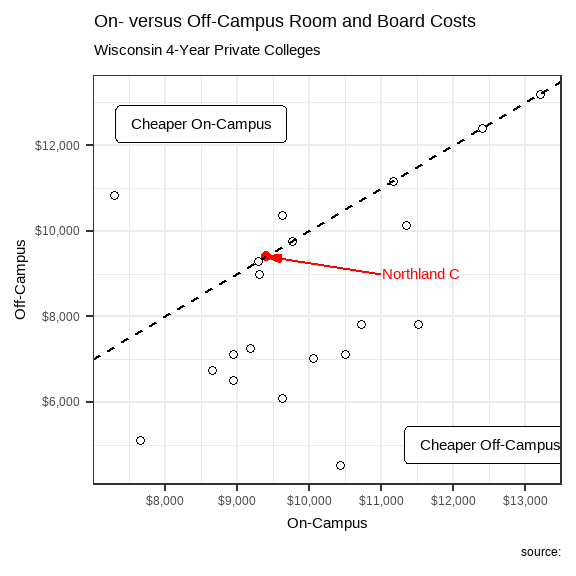
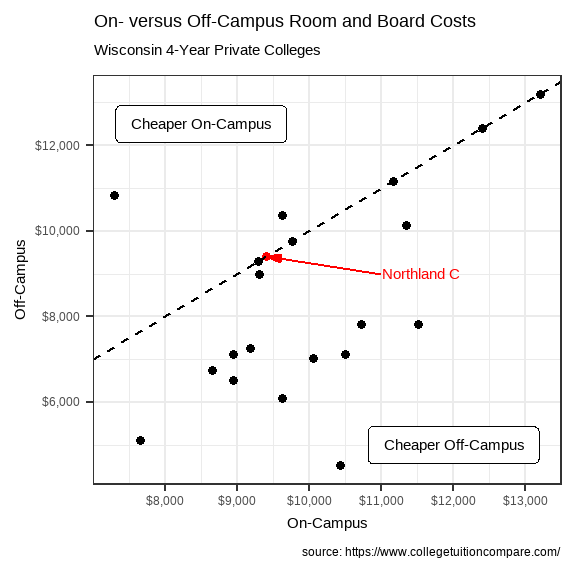
again

diff --git a/modules/Annotations/CE_Annotations.html b/modules/Annotations/CE_Annotations.html
@@ -22,8 +22,16 @@ css: "/css/modules.css"
 <p>Legends for very simple plot scan sometimes waste space and be distracting. Such an example may be the legend for the plot shown under <a href="https://derekogle.com/NCGraphing/modules/Means/CE_DeerHarvest.html#total-annual-harvest-by-county-and-year">“Total Annual Harvest by County and Year” on this page</a>. One alternative is to place a small label near the lines in the plot, as shown below. Construct <code>ggplot2</code> code to match this graph.</p>
 <p><img src="CE_Annotations_files/figure-html/unnamed-chunk-3-1.png" width="60%" /></p>
 <p> </p>
-<hr />
+</div>
+<div id="costs-of-college-i" class="section level2">
+<h2>Costs of College I</h2>
+<p>Costs of attending college can be compared across colleges at <a href="https://www.collegetuitioncompare.com/">www.collegetuitioncompare.com</a>. The data in <a href="https://derekogle.com/NCGraphing/modules/Annotations/WI_College_Costs.csv">this CSV file</a> contains cost information for four-year private colleges and universities in Wisconsin. Construct <code>ggplot2</code> code to emulated the plot below (<em>as closely as you can</em>). Note that the dashed line is the line where on-campus and off-campus costs are equal and, by definition, has a slope of 1 and an intercep to of zero. This line can be added to the plot with <code>geom_abline()</code> (you may need to perform an internet search for how to use this function). Also note that I widened the “padding” around the text in the in the two “cheaper” labels by including <code>label.padding=unit(0.35,"lines")</code> in the appropriate function.</p>
 <p><img src="CE_Annotations_files/figure-html/unnamed-chunk-4-1.png" width="60%" /></p>
+<p> </p>
+</div>
+<div id="bonus---costs-of-college-ii" class="section level2">
+<h2>BONUS - Costs of College II</h2>
+<p><img src="CE_Annotations_files/figure-html/unnamed-chunk-5-1.png" width="60%" /></p>
 </div>
 
 
